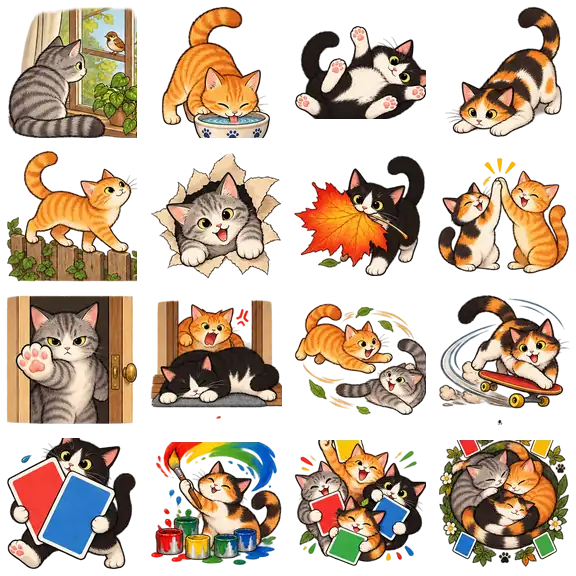
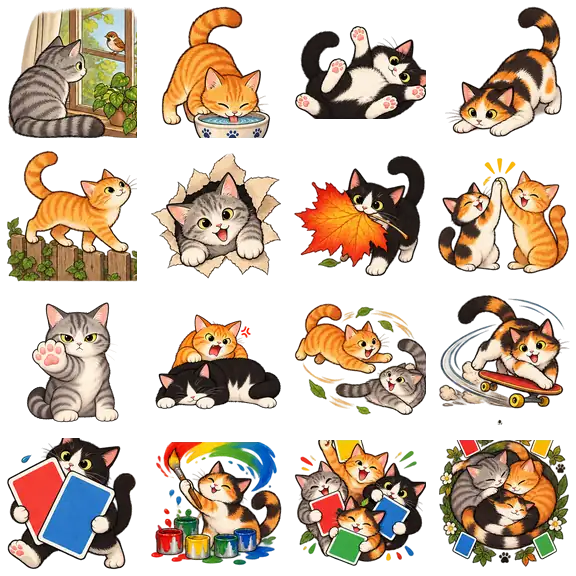
UNO: kedi destesini sadeleştir ve engel çizimlerini temizle

Changed region(s): [[0.0, 0.5, 0.5, 0.75]]

diff --git a/app/public/card-themes.js b/app/public/card-themes.js
@@ -2,7 +2,8 @@ export const DECKS=[{id:'classic',name:'Klasik'},{id:'cats',name:'Kediler'},{id:
 let current='classic';
 export function setDeckTheme(id){current=DECKS.some(d=>d.id===id)?id:'classic';return current;}
 export const getDeckTheme=()=>current;
-export const deckFiles=id=>id==='classic'||!DECKS.some(d=>d.id===id)?[]:[`./assets/cards/${id}-a.webp`,`./assets/cards/${id}-b.webp`];
+const atlasFile=(theme,sheet)=>`./assets/cards/${theme}-${sheet}.webp${theme==='cats'&&sheet==='b'?'?v=3':''}`;
+export const deckFiles=id=>id==='classic'||!DECKS.some(d=>d.id===id)?[]:[atlasFile(id,'a'),atlasFile(id,'b')];
 const colors={red:'#d90b28',yellow:'#f5c400',green:'#00954c',blue:'#086bdb',wild:'#22202a'};
 const family={cats:{paper:'#fff7e7',ink:'#342b28'},seal:{paper:'#fffefa',ink:'#211e24'},kuromi:{paper:'#ffeaf7',ink:'#291b30'},adventure:{paper:'#fff9df',ink:'#172c32'}};
 export function sceneIndex(c,back=false){
@@ -16,7 +17,7 @@ function art(theme,index,{preview=false,x=0,y=42,size=108}={}){
   if(preview)return `<image href="./assets/cards/${theme}-cover.webp" x="${x}" y="${y}" width="${size}" height="${size}" preserveAspectRatio="xMidYMid meet"/>`;
   const local=index%16,column=local%4,row=Math.floor(local/4),sheet=index<16?'a':'b';
   // The square viewport cuts only the atlas cell. It draws no panel or frame.
-  return `<svg x="${x}" y="${y}" width="${size}" height="${size}" style="width:${size}%;height:${size/1.5}%;overflow:hidden" viewBox="${column*100} ${row*100} 100 100" preserveAspectRatio="xMidYMid meet"><image href="./assets/cards/${theme}-${sheet}.webp" x="0" y="0" width="400" height="400"/></svg>`;
+  return `<svg x="${x}" y="${y}" width="${size}" height="${size}" style="width:${size}%;height:${size/1.5}%;overflow:hidden" viewBox="${column*100} ${row*100} 100 100" preserveAspectRatio="xMidYMid meet"><image href="${atlasFile(theme,sheet)}" x="0" y="0" width="400" height="400"/></svg>`;
 }
 const palette=[colors.red,colors.yellow,colors.green,colors.blue];
 function glyph(value,fill,ink='none',weight=.8){
@@ -31,7 +32,7 @@ const paw=(x,y,scale,fill)=>`<g transform="translate(${x} ${y}) rotate(-23) scal
 const skull=(x,y,scale,fill)=>`<g transform="translate(${x} ${y}) scale(${scale})" fill="${fill}"><path d="M-7 0a7 6 0 1 1 14 0c0 3-2 4-4 5v3H-3V5c-2-1-4-2-4-5Z"/><ellipse cx="-2.5" cy="0" rx="1.6" ry="2" fill="#322036"/><ellipse cx="2.5" cy="0" rx="1.6" ry="2" fill="#322036"/></g>`;
 
 function watermark(c,color,theme){
-  if(c.value==='wild')return '';
+  if(theme==='cats'||c.value==='wild')return '';
   const value=/^\d$/.test(c.value)?c.value:c.value==='wild4'?'+4':c.value==='draw2'?'+2':null;
   const fill=theme==='kuromi'?'#fff0fb':theme==='adventure'?'#fff9dc':color;
   if(value)return `<text x="${theme==='kuromi'?11:8}" y="${theme==='adventure'?83:86}" fill="${fill}" stroke="${theme==='adventure'?'#172c32':theme==='kuromi'?'#603b6d':'none'}" stroke-width="${theme==='adventure'?2:theme==='kuromi'?1.3:0}" paint-order="stroke" font-family="Arial,Helvetica,sans-serif" font-size="${value.length>1?43:68}" font-style="italic" font-weight="900" letter-spacing="-5">${value}</text>`;
@@ -67,7 +68,7 @@ export function themedFace(c,back,theme,{preview=false}={}){
   const color=colors[c.color]??colors.wild,wild=c.color==='wild',index=sceneIndex(c,back);
   const prints={cats:catPrint,seal:sealPrint,kuromi:kuromiPrint,adventure:adventurePrint};
   const wideCats=new Set([0,1,7,12,15,18,19,20,21,23,26,27,30]);
-  const placement=theme==='cats'?{x:wideCats.has(index)?-2:12,y:wideCats.has(index)?49:46,size:wideCats.has(index)?104:103}:theme==='seal'?{x:1,y:40,size:108}:theme==='kuromi'?{x:8,y:43,size:105}:{x:-1,y:43,size:110};
+  const placement=theme==='cats'?{x:index===24?-4:wideCats.has(index)?-7:2,y:index===24?24:wideCats.has(index)?34:30,size:index===24?121:114}:theme==='seal'?{x:1,y:40,size:108}:theme==='kuromi'?{x:8,y:43,size:105}:{x:-1,y:43,size:110};
   const face=back?backPrint(theme,preview):`${prints[theme](color,wild,index)}${watermark(c,color,theme)}${art(theme,index,placement)}`;
   const ink=f.ink;
   const cornerFill=c.color==='yellow'?'#30252b':f.paper;

diff --git a/app/scripts/prepare-card-art.py b/app/scripts/prepare-card-art.py
@@ -57,7 +57,13 @@ def pack(original):
         x, y = index % 4, index // 4
         tile = image.crop((round(x * image.width / 4), round(y * image.height / 4),
                            round((x + 1) * image.width / 4), round((y + 1) * image.height / 4)))
-        tile = isolated_cell(tile)
+        # Separate background-extracted edits retain both original atlas scenes.
+        override_name = {8:'cats-stop.png',9:'cats-blocked.png'}.get(index) if original.stem == 'cats-b' else None
+        override = SOURCES / override_name if override_name else None
+        if override is not None and override.exists():
+            tile = Image.open(override).convert('RGBA')
+        else:
+            tile = isolated_cell(tile)
         bounds = tile.getchannel('A').getbbox()
         if bounds:
             tile = tile.crop(bounds)

diff --git a/CARD_ART_NOTES.md b/CARD_ART_NOTES.md
@@ -5,7 +5,7 @@ Klasik deste korunur. Kediler, Fok, Kuromi ve Adventure Time temalarının her b
 Kedi kadrosu gri tekir, sarman, smokin ve üç renkli kedilerden oluşur; hareketleri ve gövdeleri kedi anatomisini koruyan 2B hikâye kitabı çizimleridir. Fok, kullanıcının özgün üçgen gövdeli, küçük kollu ve karalama gözlü çıkartmasına dayanır. Kuromi siyah/pembe/leylak; Adventure Time Ooo karakterleriyle tutarlı 2B çizim dilindedir. Her özel kart sahnesi kendi eylemine göre tasarlanmıştır. Bunlar bu proje için üretilen hayran çizimleridir; resmî lisanslı kart taramaları kullanılmamıştır.
 
 
-Kart yüzleri ortada çerçeveli bir görsel alanı kullanmaz. Kediler'de krem zemin, renkli kıvrımlar, pati ve kuyruk çizgileri; Fok'ta renkli yüzeyi boydan boya kesen karalama kenarlı kâğıt izi; Kuromi'de siyah/pembe şimşekler, kurdeleler ve küçük kafatasları; Adventure Time'da Ooo manzaraları karakter çizimleriyle birleşir. Büyük sayı veya eylem işareti çizimin arkasında baskının parçasıdır. Köşe işaretleri çizimlerin üstünde ince koyu konturla okunur; jokerler dört gerçek kart rengini taşır. Tüm temalar için yeni yüz ve arka baskıları vektördür; mevcut 32 çizim ve WebP boyutları korunur.
+Kart yüzleri ortada çerçeveli bir görsel alanı kullanmaz. Kediler'de krem zemin, renkli kıvrımlar, pati ve kuyruk çizgileri; Fok'ta renkli yüzeyi boydan boya kesen karalama kenarlı kâğıt izi; Kuromi'de siyah/pembe şimşekler, kurdeleler ve küçük kafatasları; Adventure Time'da Ooo manzaraları karakter çizimleriyle birleşir. Kediler destesinin ortasında tekrar sayı/eylem bulunmaz; değer yalnız köşelerde gösterilir. Diğer temaların büyük baskı sembolleri korunur. Köşe işaretleri çizimlerin üstünde ince koyu konturla okunur; jokerler dört gerçek kart rengini taşır. Tüm temalar için yeni yüz ve arka baskıları vektördür; mevcut 32 çizim ve WebP boyutları korunur.
 
 ## Onay durumu
 
@@ -15,8 +15,10 @@ Masa ve kart tasarımları ayrı ayrı manuel kullanıcı onayı bekliyor. Ana c
 
 Çizimler yerleşik image_gen aracıyla, iki adet 4×4 saydam PNG atlası olarak üretildi. Tam komutlar [CARD_ART_PROMPTS.md](CARD_ART_PROMPTS.md) dosyasındadır. Projedeki yüksek çözünürlüklü kaynaklar app/.local/card-art-source/{cats,seal,kuromi,adventure}-{a,b}.png; üretim manifesti aynı klasörde prompts.json. Aracın varsayılan generated_images çıktıları da korunmuştur. scripts/prepare-card-art.py, Pillow ile hücre ayırma, komşu hücre artıklarını dışlama, boşluk düzenleme, küçültme ve WebP sıkıştırmasını tekrarlar; yaratıcı çizimleri yeniden üretmez. Kaynak PNG dosyaları yayımlanmaz.
 
-Oyunun kullandığı son dosyalar app/public/assets/cards/{cats,seal,kuromi,adventure}-{a,b}.webp ve aynı klasörde {cats,seal,kuromi,adventure}-cover.webp. Atlaslar 576×576, hücreler 144×144, küçük seçim görselleri 112×112 pikseldir. Saydamlık korunur. İki atlas ve kapak dahil toplamlar: Kediler 146.132 B; Fok 125.652 B; Kuromi 170.988 B; Adventure Time 152.990 B. Deste başına 220 KB sınırı test edilir.
+Oyunun kullandığı son dosyalar app/public/assets/cards/{cats,seal,kuromi,adventure}-{a,b}.webp ve aynı klasörde {cats,seal,kuromi,adventure}-cover.webp. Atlaslar 576×576, hücreler 144×144, küçük seçim görselleri 112×112 pikseldir. Saydamlık korunur. İki atlas ve kapak dahil toplamlar: Kediler 144.950 B; Fok 125.652 B; Kuromi 170.988 B; Adventure Time 152.990 B. Deste başına 220 KB sınırı test edilir.
 
 Klasik destede atlas indirilmez. Seçim paneli açılınca yalnız dört küçük kapak gelir; tam atlaslar sadece seçilen tema için yüklenir ve tarayıcı önbelleğinde yeniden kullanılır. Seçim her cihazda kişiseldir, kart resimleri WebRTC üzerinden aktarılmaz. Tema değişimi elin kart düğümlerini ve oyun durumunu korur; uçuş sürüyorsa yeniden çizim iniş sonrasına ertelenir.
 
 Tasarım araştırması: [Bicycle Kuromi](https://store.asmodee.com/products/bicycle-kuromi) ve [Sanrio Kuromi](https://corporate.sanrio.co.jp/en/business-info/brands/kuromi/index.html). Kopyalanan ürün görseli yoktur. 5.1 önizleme kanıtı app/.local/uno-cards-redesign.png; canlı bot kanıtı app/.local/uno-cards-redesign-bot.png.
+
+5.1.1 kedi düzeltmesi: İlk engelde pati uzatan tekir, ikinci engelde yolu kapatan uyuyan smokin/sarman sahnesi yerleşik image_gen ile ahşap kapı çerçevelerinden ayrıldı. Saydam kaynaklar app/.local/card-art-source/cats-stop.png ve cats-blocked.png; özgün cats-b.png korunur. prepare-card-art.py yalnız cats-b hücre8/9 için bu kaynakları kullanır; çalışma zamanında aynı public/assets/cards/cats-b.webp içinde kalır, ek görsel isteği yoktur. ?v=3 eski atlasın önbelleğini yeniler. Sayı çizimleri daha büyük ve dengeli yerleşir. Fok/Kuromi/Adventure Time yüzleri önceki sürümle birebir eşittir. Tam komutlar CARD_ART_PROMPTS.md sonundadır.

diff --git a/CARD_ART_PROMPTS.md b/CARD_ART_PROMPTS.md
@@ -42,3 +42,20 @@ Use case: illustration-story. Asset: second 4x4 TRANSPARENT illustration atlas f
 14 WILD: Lady Rainicorn winds an elaborate swirling rainbow loop around four floating blank red yellow green blue cards, cheerful vivid magical scene;
 15 WILD DRAW FOUR: epic Finn, Jake, BMO and Princess Bubblegum ensemble, each with a single large blank card red yellow green blue, four cards total in dynamic radial fan, highest-detail special illustration with magical sparks;
 16 CARD BACK: Finn and Jake together with BMO in front of their treehouse, a compact colorful oval composition with sword and backpack motifs. Clear actual-alpha background, readable at90px. Keep TV character silhouettes/proportions, not 3D, not realistic.
+
+## 5.1.1 · Kedi engel çizimlerinin saydamlaştırılması
+
+Yerleşik `image_gen`, `transparent_background: true`; referans ve düzenleme hedefi özgün `app/.local/card-art-source/cats-b.png`. Kaynak atlas korunur. Tekli çıktılar aynı klasörde `cats-stop.png` ve `cats-blocked.png` olarak saklanır; yalnız atlas hücre 8/9 değiştirilir.
+
+### cats-stop.png
+
+```text
+Use case: background-extraction / precise-object-edit. Edit target: the attached existing 4-by-4 illustration atlas. Extract ONLY the gray tabby cat in the FIRST COLUMN OF THE THIRD ROW, the cat facing forward with a large pink-padded paw held toward the viewer in a STOP gesture. The other 15 drawings are reference context only and MUST NOT appear in the output. Remove the entire rectangular brown wooden doorway, side posts, door panel, dark interior and all surrounding scenery from this one illustration. Preserve the same cute gray striped cat identity, white muzzle and chest, pink nose, yellow eyes, mildly serious small frown, head proportions, foreshortened pink paw pads, delicate warm storybook watercolor/ink linework. Keep the paw held prominently toward us, with the same expression and pose. Complete any missing fur/body edge naturally as a compact seated cat, with a small curled striped tail and paws, so the silhouette is organic. This is a production game sprite: one isolated cat, full organic silhouette, actual TRANSPARENT background, with generous small clear margin around all sides, no white box, no paper rectangle, no doorway/frame, no scenery, no drop shadow, no extra objects, no typography, no card or numbers, no other characters. Use the existing drawing as faithfully as possible, do not replace it with a different style, toy, realistic photograph, or 3D render. Output one square transparent cutout of that single cat only.
+```
+
+### cats-blocked.png
+
+```text
+Use case: background-extraction / precise-object-edit. Edit target is the attached existing 4-by-4 illustration atlas. Extract ONLY the SECOND COLUMN OF THE THIRD ROW: a black-and-white tuxedo cat sleeping in the foreground while an orange ginger cat behind it is annoyed that it cannot pass. The other 15 illustrations are context only and MUST NOT appear. Remove all rectangular brown wooden doorframe, side posts, door panel, background rectangle and floor/platform. Preserve BOTH original cats and their arrangement, proportions, cute watercolor storybook hand-inked drawing style and identities. The foreground tuxedo cat is sprawled horizontally asleep, eyes closed, white muzzle/white belly/white paws, pink nose, curled tail on its right. The ginger cat behind peers over the sleeping cat, mouth open in exasperation, both ears up, two forepaws visible, with the small red comic anger mark beside its head. Complete their organically rounded furry edges naturally. Preserve the visual meaning of a cat blocking the other's passage, but with NO literal doorway or rectangular frame remaining. This is an isolated production game sprite. One clean coherent cutout containing the two cats, with actual TRANSPARENT background around all sides and a small clear margin. No white square, no paper rectangle, no scenery, no floor line, no drop shadow, no text, no card numbers or icons, no other animals. Do not change to 3D, toy/plush, photo, or anime style. Keep the existing simple affectionate cat illustration style. Square transparent output.
+```
+
